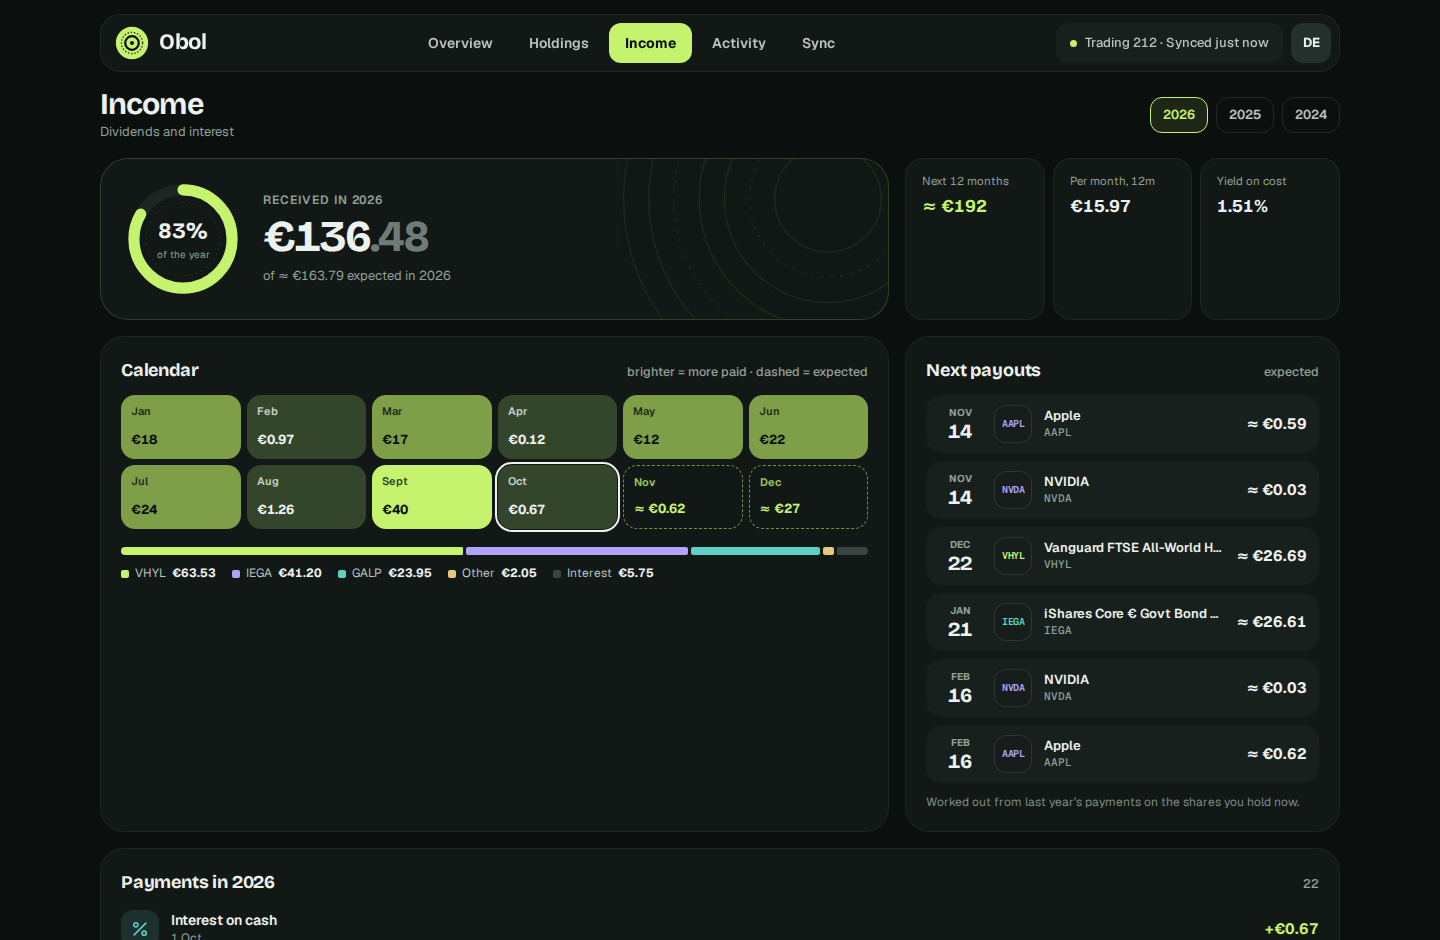
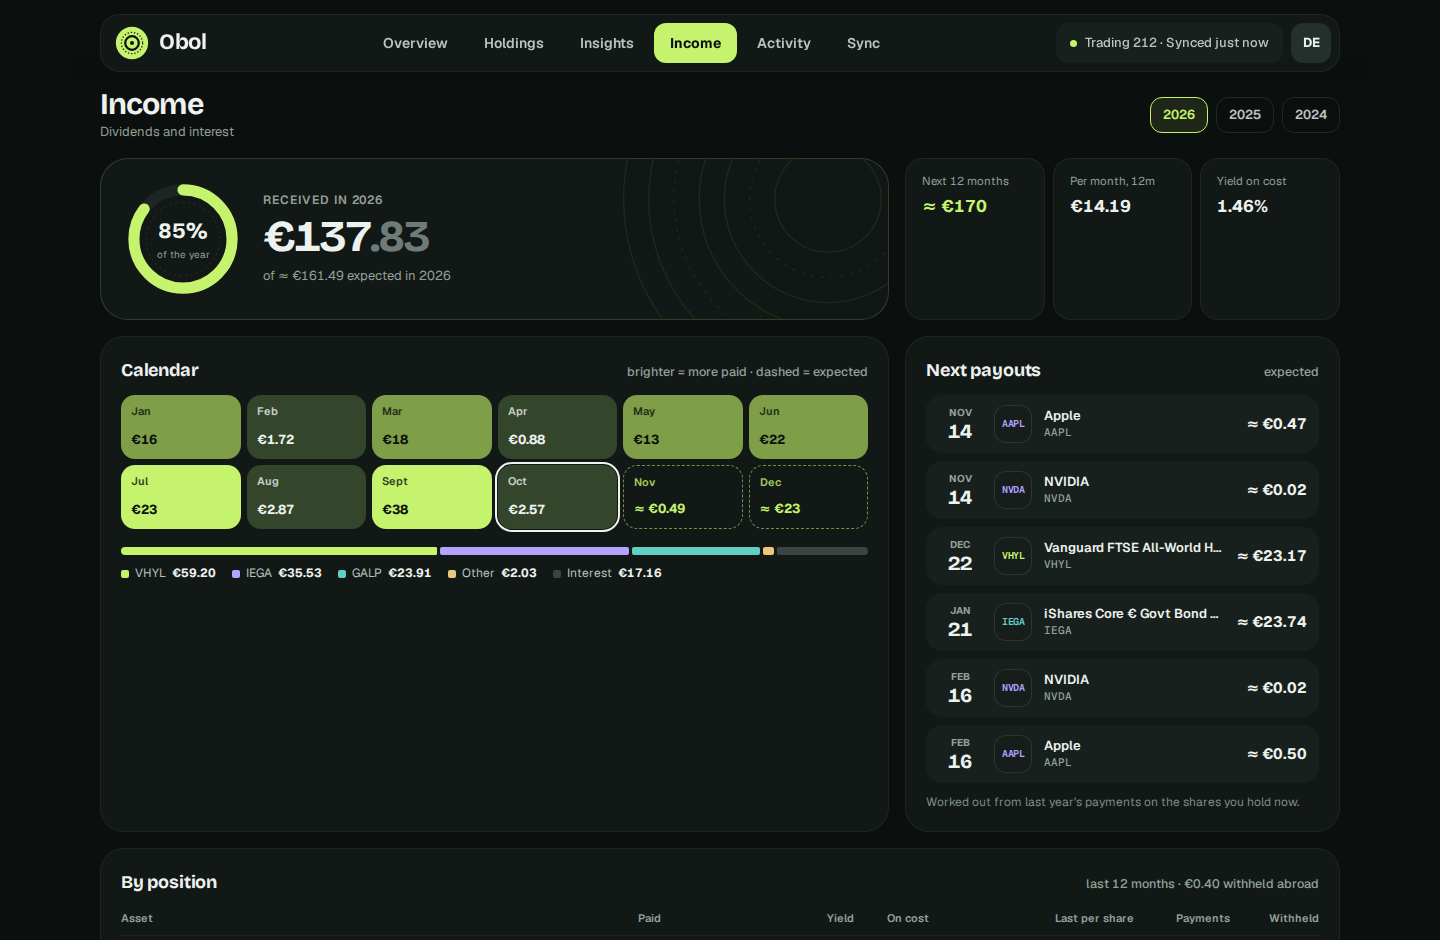
README: insights, AI coach and the new landing; fresh images
Claude-Session: https://claude.ai/code/session_01E9LFA5GtCuwp2X6XQffUzE

diff --git a/.github/scripts/screenshots.py b/.github/scripts/screenshots.py
@@ -91,7 +91,8 @@ with sync_playwright() as p:
 
         for shot, path in [("landing", "/about"), ("sign-in", "/sign-in"), ("create-account", "/create-account")]:
             page.goto(base + path)
-            page.wait_for_timeout(1200)
+            # The landing page animates in: let it settle.
+            page.wait_for_timeout(4500 if shot == "landing" else 1200)
             page.screenshot(path=str(out / f"{name}-{shot}.png"))
             if shot == "landing":
                 page.screenshot(path=str(out / f"{name}-{shot}-full.png"), full_page=True)

diff --git a/README.md b/README.md
@@ -52,10 +52,30 @@
 - **A position**: the price chart with every buy and sell marked, the average price you paid as a guide line, the
   dividends it paid, what you put in and what you took out.
 
+**Insights**
+
+- **Performance against the market**: your **money-weighted** return (XIRR: how your money did, deposits' timing
+  included) and **time-weighted** return (TWR: how funds and indexes report), and what **the same deposits, on the same
+  days**, would be worth in **MSCI World** or the **S&P 500** — "am I beating the index?" in one chart. Plus a heatmap
+  of every month's return.
+- **Exposure**: how much is in each **currency** and what the exchange rate added or took since you bought (and what a
+  5 % stronger euro would do), **sectors**, **countries**, and **concentration** (biggest position, top 5, effective
+  number of positions).
+- **Realized**: what every sale made, at average cost as Trading 212 counts it, by year and by position, with the hit
+  rate.
+- **Goals**: where the portfolio could be in N years adding Y a month, in careful, steady and strong scenarios, and when
+  the dividends would reach the income you'd like a month. Sliders, worked out live.
+- **AI coach** (optional): an AI reads your positions, sectors, currencies, income and returns and writes a short
+  review — what's working, what to keep an eye on (concentration, repeated bets, dividends at risk, currency) and three
+  things to look at. Bring a **Claude** or **Gemini** key, or run a **local model with Ollama** so nothing leaves your
+  network. It never tells you to buy or sell anything.
+
 **Income**
 
 - A **calendar** of what each month paid and what the rest of the year should bring, **yield on cost**, the next 12
   months and where the income comes from. Interest on cash counts too.
+- **By position**: what each one paid in the last 12 months, its yield and yield on cost, whether the last payment per
+  share was **raised or cut**, and the **tax withheld abroad**.
 
 **Activity**
 
@@ -87,26 +107,33 @@
 ### Your portfolio
 <img src="docs/images/portfolio.png" alt="Phone: overview, holdings, a position and income">
 
-### Activity, sync and settings
-<img src="docs/images/tracking.png" alt="Phone: activity, sync, a position in dollars and settings">
+### Insights
+<img src="docs/images/insights.png" alt="Phone: performance against the indexes, exposure, goals and the AI coach">
+
+### Realized, activity and sync
+<img src="docs/images/tracking.png" alt="Phone: realized gains, activity, sync and settings">
 
 ### On the computer
 <table>
 <tr>
-<td width="50%"><b>Overview, all time</b><br><img src="docs/images/desktop-overview-all.png" alt="The overview since the first deposit: value against money put in"></td>
+<td width="50%"><b>Performance</b><br><img src="docs/images/desktop-insights.png" alt="Your return against the same deposits in MSCI World and the S&P 500, and every month's return"></td>
+<td width="50%"><b>Exposure</b><br><img src="docs/images/desktop-exposure.png" alt="Currencies with the exchange rate's effect, concentration, sectors and countries"></td>
+</tr>
+<tr>
+<td width="50%"><b>Realized</b><br><img src="docs/images/desktop-realized.png" alt="What the sales made, by year and by position"></td>
+<td width="50%"><b>Goals</b><br><img src="docs/images/desktop-goals.png" alt="Where the portfolio could be in a few years, and when the dividends reach your goal"></td>
+</tr>
+<tr>
+<td width="50%"><b>AI coach</b><br><img src="docs/images/desktop-coach.png" alt="A short review of the portfolio: what's working, what to watch, what to look at"></td>
 <td width="50%"><b>Holdings</b><br><img src="docs/images/desktop-holdings.png" alt="Every position with its weight, average cost, today and return"></td>
 </tr>
 <tr>
 <td width="50%"><b>A position</b><br><img src="docs/images/desktop-position.png" alt="The price over a year with every buy marked and the average price paid"></td>
-<td width="50%"><b>In dollars</b><br><img src="docs/images/desktop-position-usd.png" alt="A US stock priced in dollars, valued in euros at each day's rate"></td>
+<td width="50%"><b>Income</b><br><img src="docs/images/desktop-income.png" alt="The calendar of dividends, the next payouts and the income by position"></td>
 </tr>
 <tr>
-<td width="50%"><b>Income</b><br><img src="docs/images/desktop-income.png" alt="The calendar of dividends and interest, the year's progress and the next payouts"></td>
 <td width="50%"><b>Activity</b><br><img src="docs/images/desktop-activity.png" alt="Every buy, sell, dividend, deposit and interest, newest first"></td>
-</tr>
-<tr>
 <td width="50%"><b>Sync</b><br><img src="docs/images/desktop-sync.png" alt="Trading 212 connected, what syncs, the CSV import and the last run"></td>
-<td width="50%"><b>Settings</b><br><img src="docs/images/desktop-settings.png" alt="Password, accounts and the version"></td>
 </tr>
 </table>
 
@@ -145,6 +172,11 @@ the first account with the setup key (it becomes the admin) and you land on **Sy
 | `SQL_PORT` | `1436` | Host port for SSMS / Azure Data Studio (`<nas-ip>,1436`, user `sa`). |
 | `SQL_MEMORY_LIMIT_MB` · `SQL_CPUS` · `OBOL_CPUS` | `1024` · `2` · `1` | Keep the stack small on the NAS. |
 | `OBOL_WEBAPI_MEMORY` · `OBOL_WEBSITE_MEMORY` | `512m` · `384m` | Memory caps of the WebApi and the website. |
+| `OBOL_AI_PROVIDER` | — (off) | `anthropic` (Claude), `gemini` (Google AI Studio key) or `openai` (OpenAI, **Ollama**, LM Studio — anything OpenAI-compatible). Empty: the coach explains how to turn it on. |
+| `OBOL_AI_API_KEY` | — | The provider's API key (not needed for a local Ollama). |
+| `OBOL_AI_MODEL` | `claude-haiku-5-5` · `gemini-3.8-flash` · `gpt-4o-mini` | The model, e.g. `claude-sonnet-5-5` or `llama3.1:8b`. |
+| `OBOL_AI_BASE_URL` | OpenAI | For `openai`: e.g. `http://192.168.1.10:11434/v1` for Ollama on the NAS. |
+| `OBOL_AI_LANGUAGE` | `English` | The language the coach writes in, e.g. `Portuguese (Portugal)`. |
 | `OBOL_DEMO_MODE` | `false` | `true` runs on a sample portfolio in memory (sign in as `demo` / `obol-demo`; every new account gets it too). |
 
 **Nginx Proxy Manager:** the website joins `nas-net`, so a proxy host can forward to `http://obol-website:8080` (with
@@ -182,6 +214,12 @@ are found by their names). Stock splits and other corporate actions in the file 
   trades fill in prices and exchange rates when Yahoo has none. Pence (GBX) and pounds are told apart.
 - **Gain over a range** = value at the end − value at the start − money put in meanwhile, as a share of what was there
   (plus what was added). **Total return** = net worth − net deposits.
+- **Money-weighted return (XIRR)** is the one yearly rate that turns every deposit, on its day, into today's value.
+  **Time-weighted (TWR)** chains each day's move with that day's deposits taken out. **The same money in an index**
+  buys units of the index ETF (EUNL, SXR8, in euros) with the first day's value and every later deposit at that day's
+  close. When the deposits aren't synced, the trades are the flows and only what's invested is measured.
+- **Exchange-rate effect** is Trading 212's figure per position, or the shares at today's price times the change of the
+  rate since the average buy.
 - **Expected income** repeats every payment of the last 12 months on the shares you hold today (per share), a year
   later. It's an estimate: companies change their dividends.
 
@@ -199,7 +237,7 @@ Obol.slnx
 ├── Obol.Library/             enums, ServiceApiResponse, validation types, header names (no ASP.NET)
 ├── Obol.WebApi/              ASP.NET Core API (x-api-key): the sync, prices, logos and the portfolio maths
 │   ├── Extensions/           API-key authentication, data (Dapper over stored procedures, memory store), time, secrets
-│   └── Features/             Users, Connections, Trading212, Csv, Instruments, Portfolio, Prices, Logos, Syncs, Demo, Health
+│   └── Features/             Users, Connections, Trading212, Csv, Instruments, Portfolio, Insights, Prices, Logos, Syncs, Demo, Health
 │       └── <Feature>/        Controllers, Models (Entities, DTOs), Repositories (SQL + memory), Services, Http samples
 ├── Obol.Sdk/                 typed client of the WebApi and copies of its DTOs (the Website never references the WebApi)
 ├── Obol.Website/             ASP.NET Core MVC: the landing page, sign-in and the app
@@ -254,6 +292,11 @@ JSON, every call with the `x-api-key` header. `userId` is the account's id (32 h
 | `GET portfolio/position?userId=&key=&range=` | one instrument: prices, trades, dividends |
 | `GET portfolio/activity?userId=&kind=&skip=&take=` | the activity, newest first |
 | `GET portfolio/income?userId=&year=` | the income calendar of a year |
+| `GET insights/performance?userId=&range=` | money- and time-weighted returns, against MSCI World and the S&P 500, monthly returns |
+| `GET insights/exposure?userId=` | currencies (with the exchange rate's effect), sectors, countries, concentration |
+| `GET insights/realized?userId=&year=` | what the sales of a year made |
+| `GET insights/goals?userId=` | where the portfolio is now, for the projection |
+| `GET`/`POST insights/coach?userId=` | the AI coach; POST starts a review in the background, poll GET |
 | `GET logo?key=&symbol=` | an instrument's logo (PNG, cached) |
 | `GET health` | status (no key needed) |
 
